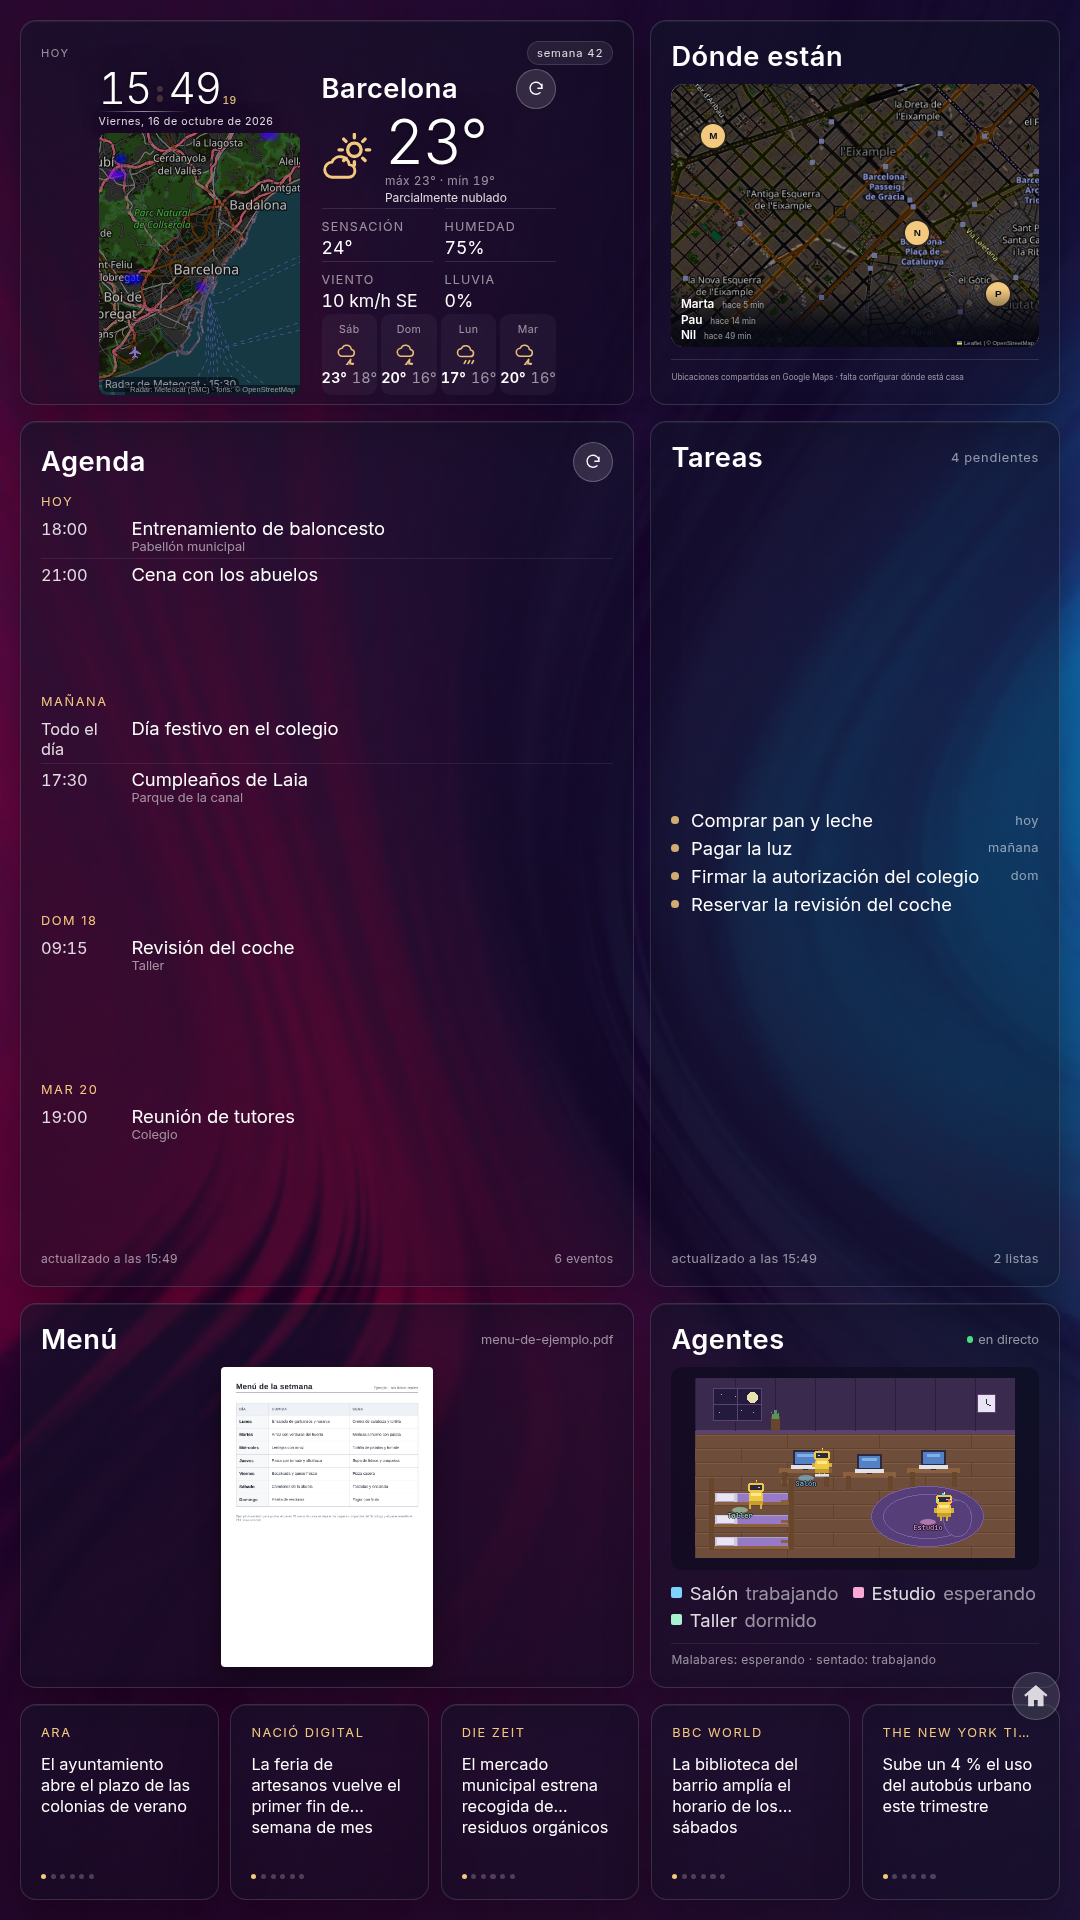
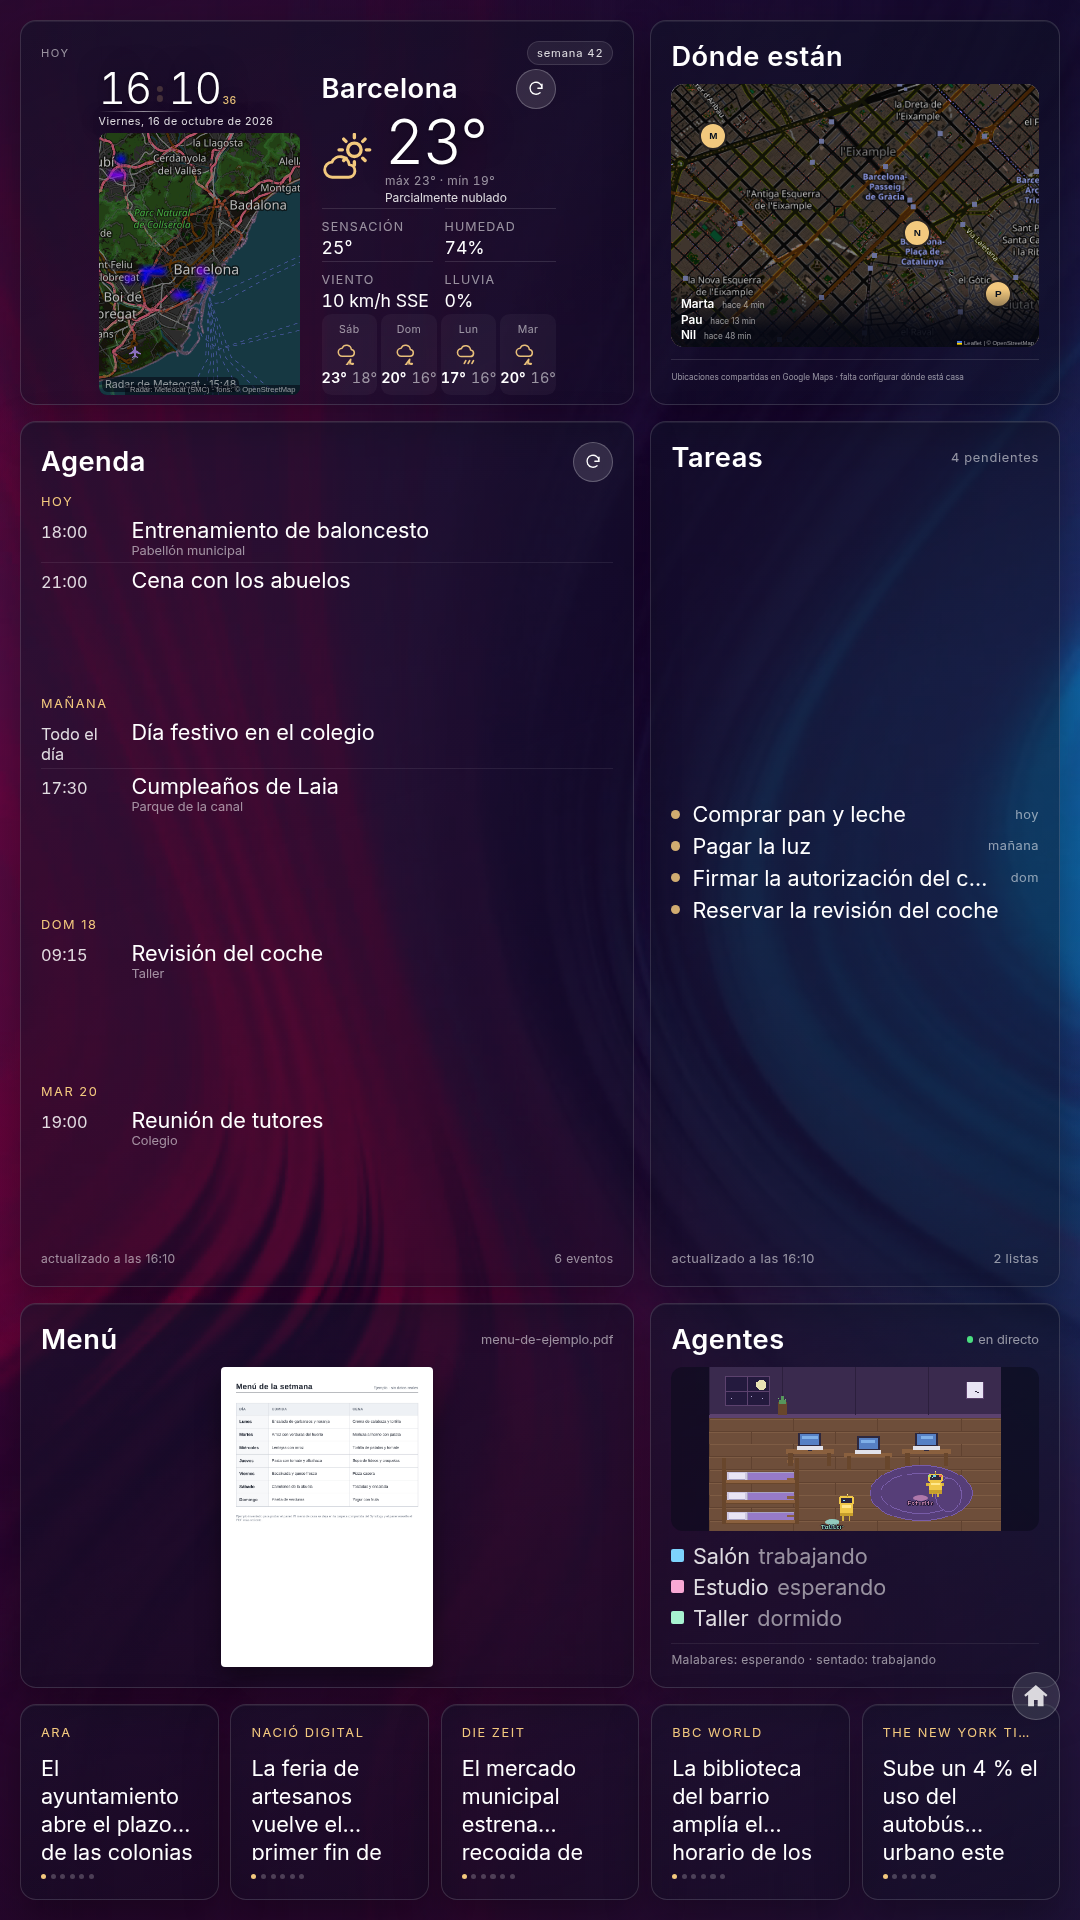
la letra de leer de la agenda y las tareas, al tamano que el codigo decia
El comentario del CSS decia que el texto de leer de las cuatro tarjetas del medio va a --t-lead con 21,6 px en la pantalla de casa, pero el clamp de ese token estaba cortado en 1.15rem (18,4): nunca llegaba. Ahora el tope deja pasar los 21,6 (1.35rem = 2vmin en esta pantalla), asi que la agenda sube de 18,4 a 21,6 y las tareas igual. De paso se corrige un error de la vez anterior: los titulares los puse en --t-body midiendo el contenedor del evento en vez de su titulo; van donde tenian que ir, en --t-lead, o sea al mismo tamano que la agenda. Horas, etiquetas y pies siguen un escalon por debajo. Capturas rehechas.

diff --git a/src/App.css b/src/App.css
@@ -51,7 +51,7 @@
 
   /* --- jerarquía de letra: tamaños físicos, iguales en todas las tarjetas --- */
   --t-title: clamp(1.05rem, 2.6vmin, 1.7rem);
-  --t-lead: clamp(0.8rem, 2vmin, 1.15rem);
+  --t-lead: clamp(0.8rem, 2vmin, 1.35rem);
   --t-body: clamp(0.72rem, 1.8vmin, 1.02rem);
   --t-meta: clamp(0.55rem, 1.4vmin, 0.8rem);
   --t-foot: clamp(0.53rem, 1.3vmin, 0.75rem);
@@ -1089,7 +1089,7 @@
 
 .news__title {
   min-height: 0;
-  font-size: var(--t-body);
+  font-size: var(--t-lead);
   line-height: 1.28;
   color: var(--ink);
   display: -webkit-box;
@@ -1752,7 +1752,7 @@
 }
 
 .news__title {
-  font-size: var(--t-body);
+  font-size: var(--t-lead);
   line-height: 1.3;
   -webkit-line-clamp: 3;
 }
